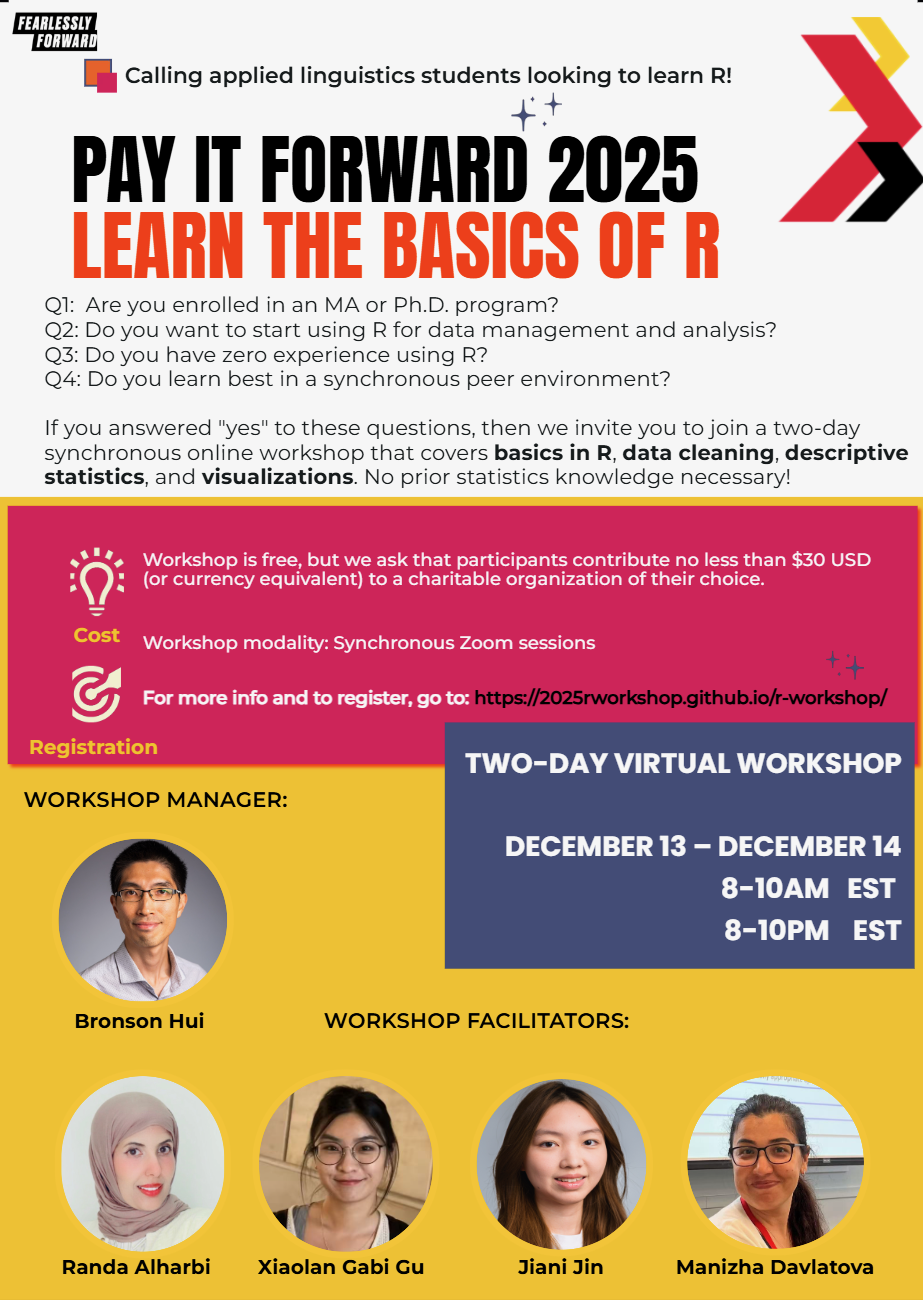
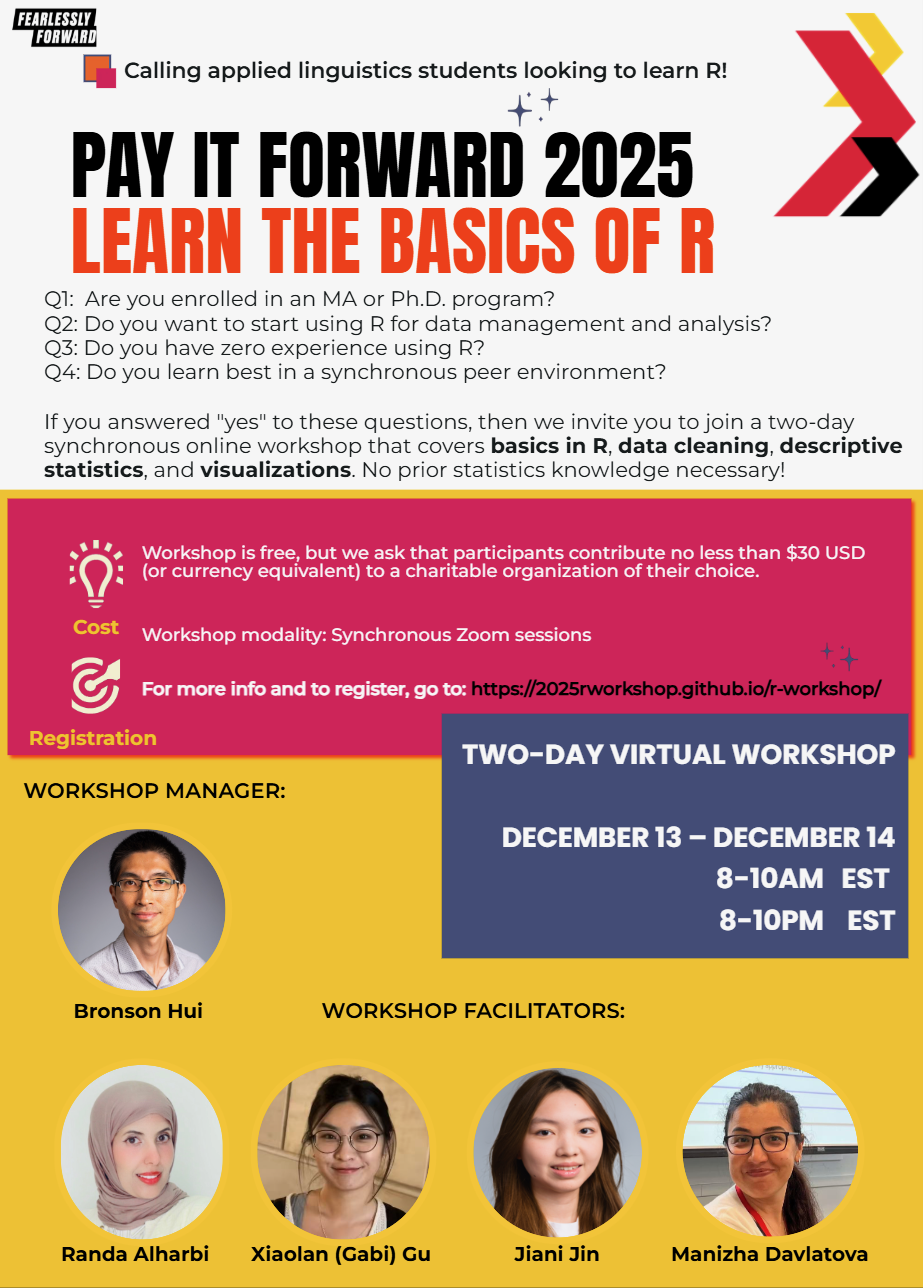
Built site for gh-pages

Changed region(s): [[0.0, 0.0, 1.0, 0.8075], [0.0, 0.7764, 1.0, 1.0], [0.8494, 0.0, 1.0, 0.1863]]

diff --git a/aboutus.html b/aboutus.html
@@ -137,7 +137,7 @@ ul.task-list li input[type="checkbox"] {
 <hr>
 </section>
 <section id="xiaolan-gabi-gu" class="level2">
-<h2 data-anchor-id="xiaolan-gabi-gu">Xiaolan Gabi Gu</h2>
+<h2 data-anchor-id="xiaolan-gabi-gu">Xiaolan (Gabi) Gu</h2>
 <p>Xiaolan Gabi Gu is a Ph.D.&nbsp;student in a joint Ph.D.&nbsp;program between Ocean University of China and the University of Maryland, and a member of Maryland Language Science Center. She employs psycholinguistic methods and cognitive measures, including reaction times and event-related potentials, to investigate how L2 English and L1 Chinese are represented in the bilingual mind. Her research interests include bilingual processing, emotionality in mental lexicon, and second language acquisition. She uses R for behavioral data analysis. Her work has appeared or will appear in <em>International Journal of Bilingual Education and Bilingualism</em>, <em>International Journal of Applied Linguistics</em>, <em>Philosophical Psychology</em>, <em>Frontiers in Psychology</em>, <em>Journal of English as a Lingua Franca</em>, and four other Chinese journals. She is currently leading three funded projects supported by Ocean University of China, the Fundamental Research Funds for the Central Universities, and China Scholarship Council. Xiaolan also serves as an ad hoc reviewer for <em>International Journal of Applied Linguistics</em>.</p>
 <hr>
 </section>
